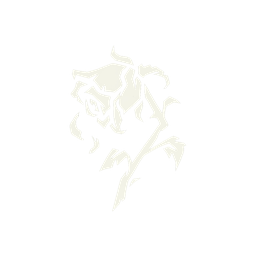
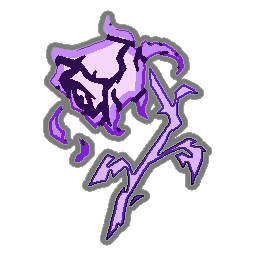
feat(card): 为先古卡「女巫形态」追加虚无词条并重绘魔女能力图标
- [Add] 为 WitchForm 卡牌覆写 CanonicalKeywords 追加虚无（Ethereal）词条
- [Add] 重绘 WitchFormPower 能力图标（方案 B：魔女之姿·幽紫），按原版规范放大并增加半透外描边
- [Docs] 同步修复意、俄两语 cards.json 中女巫形态描述文本
- [Chore] 将母版存入 image_gen/source/powers/ 以供自动化生成

diff --git a/Sts2BalanceModCode/Cards/WitchForm.cs b/Sts2BalanceModCode/Cards/WitchForm.cs
@@ -14,13 +14,15 @@ namespace Sts2BalanceMod.Sts2BalanceModCode.Cards;
 
 /// <summary>
 /// 先古卡：女巫形态 (Witch Form)
-/// 3 费 | 能力 | 稀有度：先古 | 目标：自身
+/// 3 费 | 能力 | 稀有度：先古 | 目标：自身 | 虚无
 /// 获得 1 层女巫形态。结束你的回合。
 /// 升级：获得固有。
 /// </summary>
 [RegisterCard(typeof(EventCardPool), FullPublicEntry = "STS2_BALANCEMOD_WITCH_FORM")]
 public sealed class WitchForm : BalanceCardTemplate
 {
+  public override IEnumerable<CardKeyword> CanonicalKeywords => [CardKeyword.Ethereal];
+
   protected override IEnumerable<DynamicVar> CanonicalVars => [new PowerVar<WitchFormPower>(1m)];
 
   protected override IEnumerable<IHoverTip> AdditionalHoverTips =>
